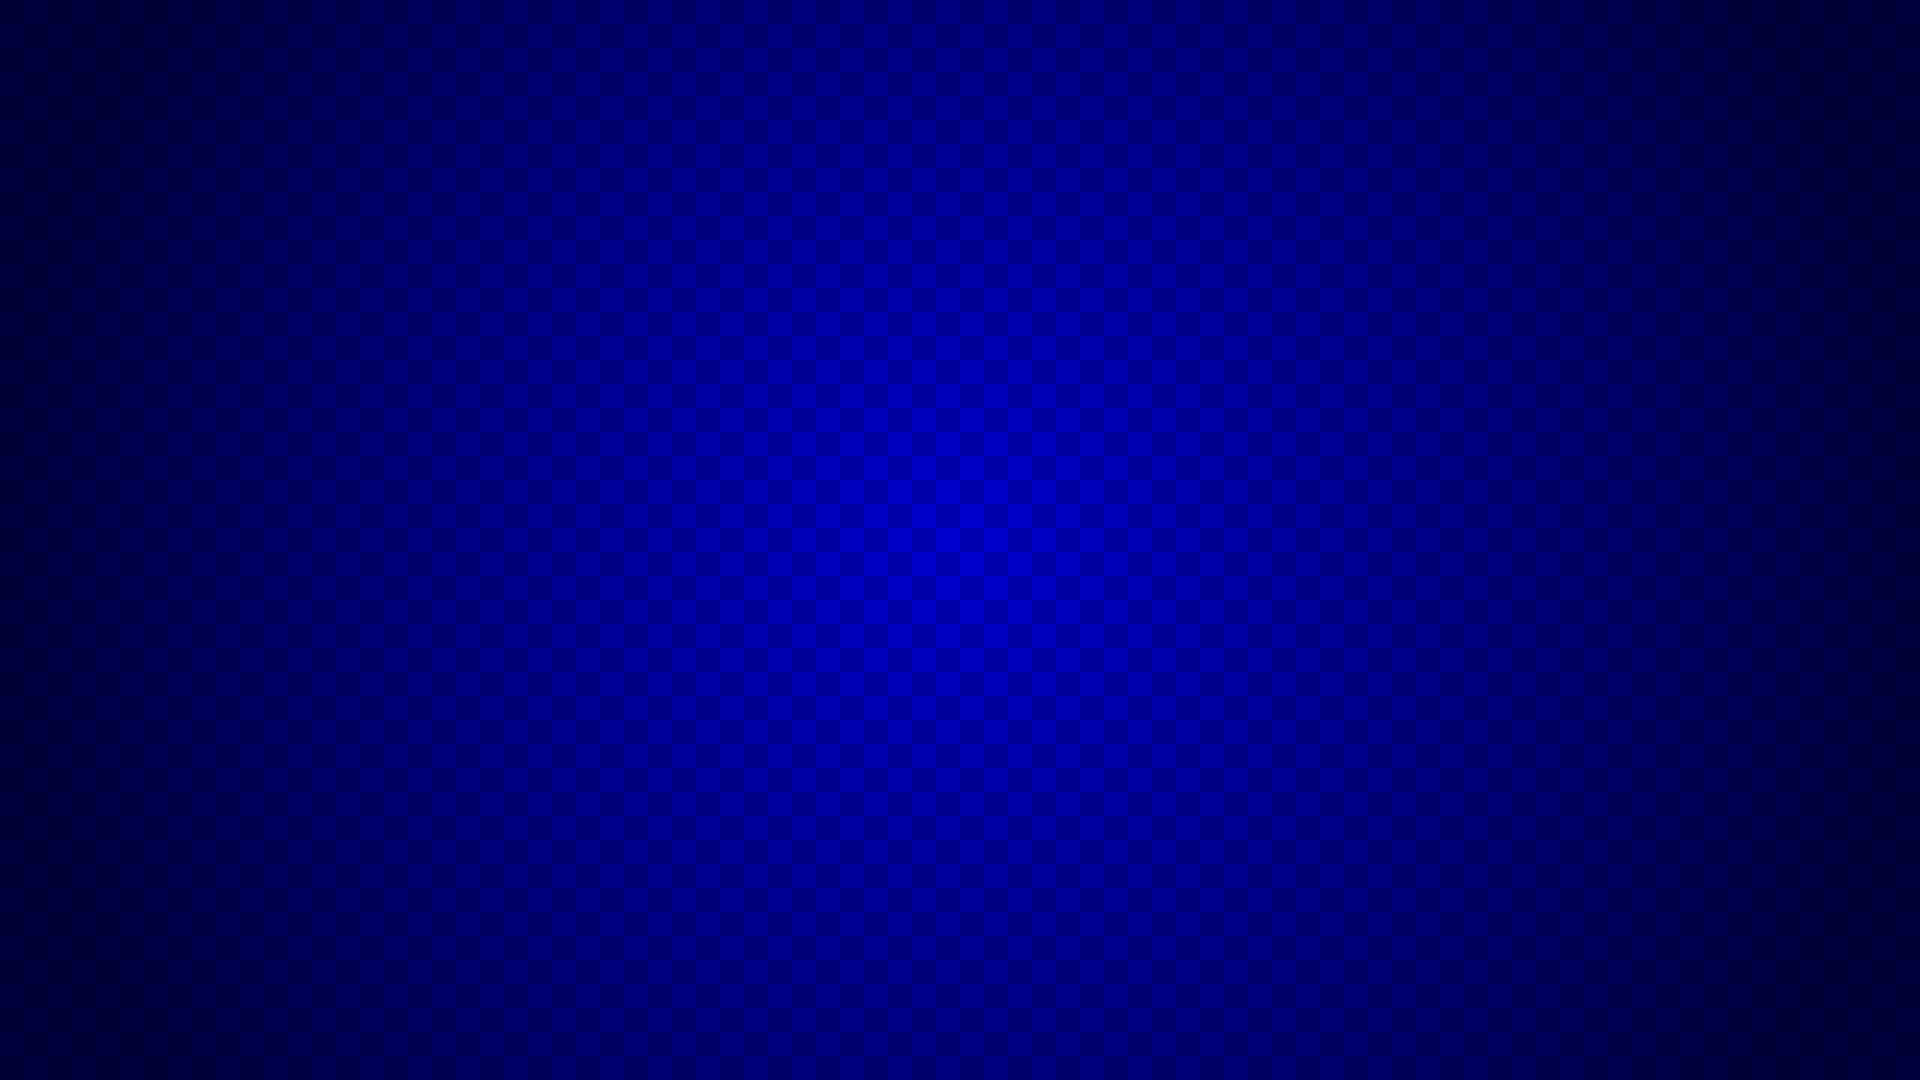
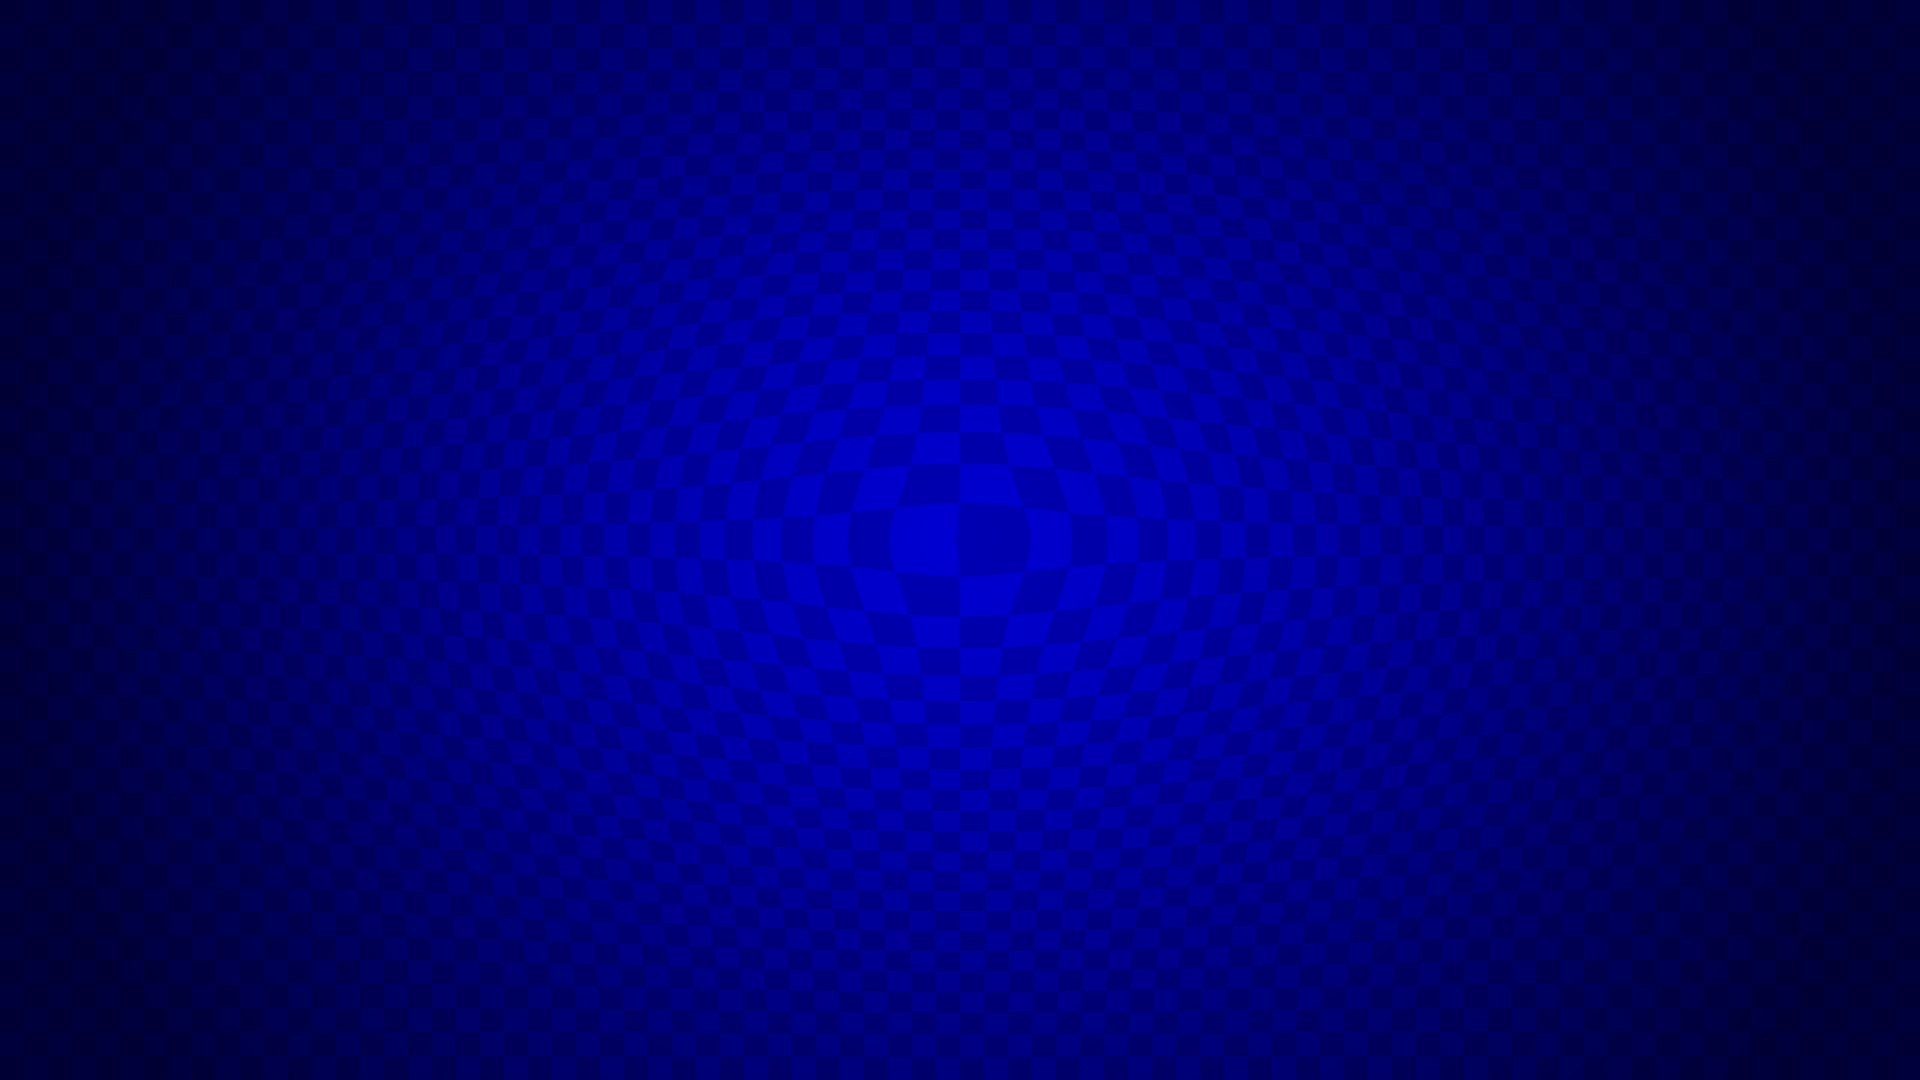
[feat] チェッカー系は中央を拡大させる

Changed region(s): [[0.1875, 0.1222, 0.8125, 0.8861]]

diff --git a/experiment/image_renderer/0240_color_theme.rb b/experiment/image_renderer/0240_color_theme.rb
@@ -74,7 +74,7 @@ parser.image_renderer(color_theme_key: "is_color_theme_groovy_board_texture1").d
 
 # parser.image_renderer(color_theme_key: "is_color_theme_club24").display
 parser.image_renderer(color_theme_key: "is_color_theme_wars_red").display
-# parser.image_renderer(color_theme_key: "is_color_theme_wars_blue").display
+parser.image_renderer(color_theme_key: "is_color_theme_wars_blue").display
 # parser.image_renderer(color_theme_key: "is_color_theme_piyo").display
 
 # parser.image_renderer(color_theme_key: "is_color_theme_metal1").display
